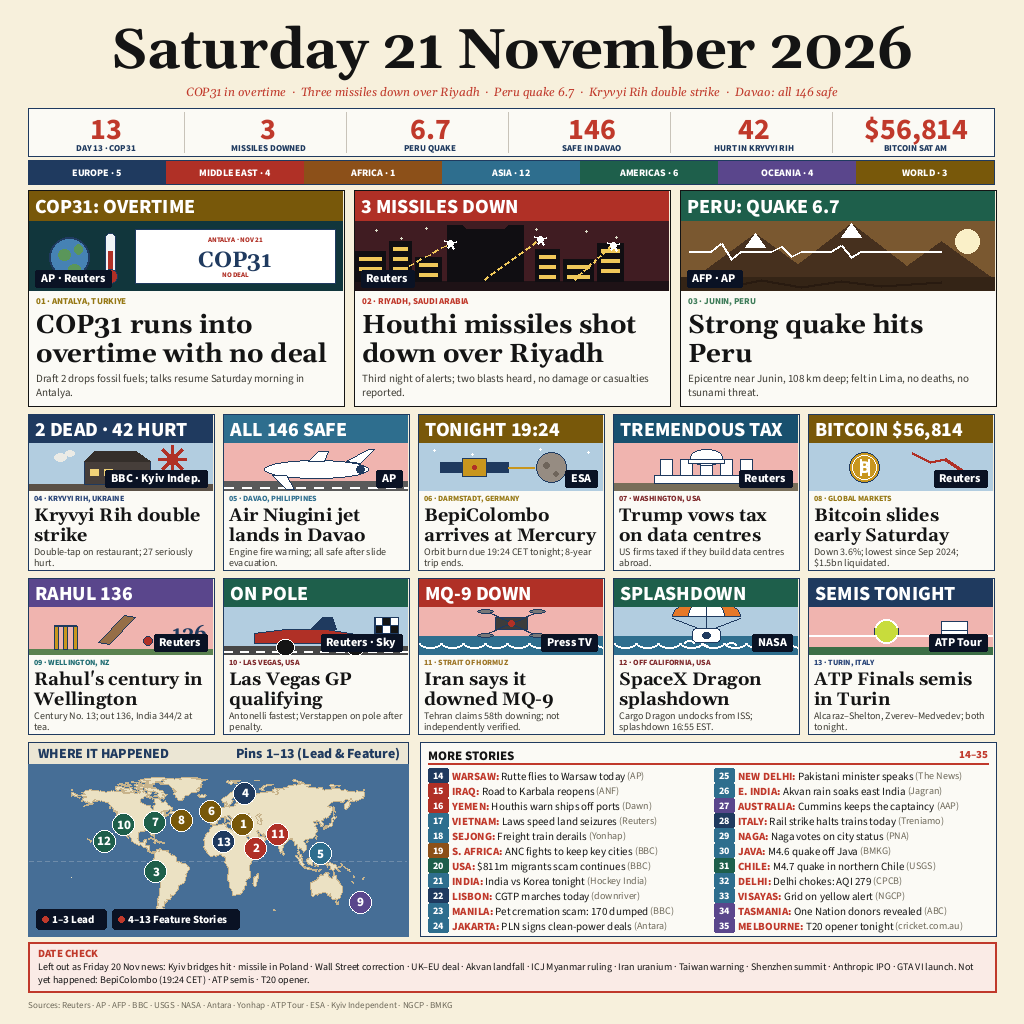
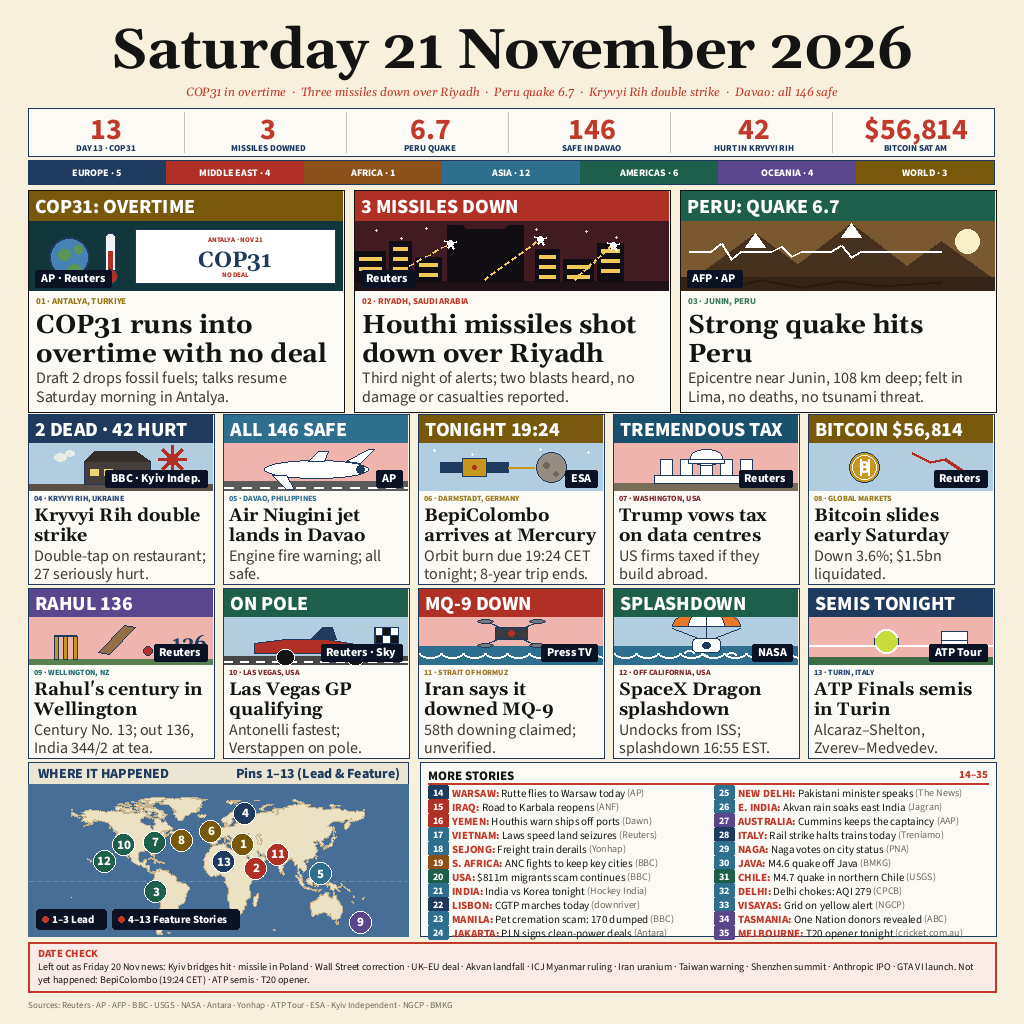
Opsi A layout ringkasan 16pt (Kevin 22 Nov 04:55): CARD_H 156->170, CARD_Y baris-2 578->588, MAP/BRIEFS y1 742->762 (peta 194->174px, -10%); pitch ringkasan kartu 19->18; briefs pitch 15->14 + mulai y1+23; 13/13 ringkasan 16pt 2 baris, col_bottoms 926/926, deterministik 2x

Changed region(s): [[0.0312, 0.5312, 0.9688, 0.9375], [0.0312, 0.3438, 0.9688, 0.4062]]

diff --git a/render_v2.py b/render_v2.py
@@ -40,6 +40,23 @@ Perubahan vs V1 (hanya 5 CHANGES FOR IMPROVE dari loss_report_a1.md):
    8pt->13pt, jarak minimum 18->25px, offset sampai 30px; acuan pin
    ni20 rev8) + label peta (judul 11->14, "Pins 1-13" 12->14, legenda
    8->11, chip 16px->20px); posisi kota + warna pin TIDAK berubah.
+11. Revisi Kevin 22 Nov 04:46 WIB: perbesar teks ringkasan/deskripsi di
+   bawah headline semua 13 kartu supaya kelihatan tanpa zoom —
+   LANTAI 16px (aturan Kevin 22 Nov 04:47, MEMORY.md: tidak ada teks di
+   bawah 16px di file; kalau tidak muat, potong kata, JANGAN kecilkan
+   font; cek di lebar 390px). Hero 11->16pt, kartu 10->16pt, pitch
+   19; HERO_H 216->222 (ringkasan mulai +76); 7 ringkasan dipersingkat
+   supaya tetap <=2 baris (#5, #7, #8, #10, #11, #12, #13 — "both
+   tonight" #13 sudah di banner SEMIS TONIGHT); fakta/angka TIDAK
+   berubah; headline tetap.
++12. Opsi A Kevin 22 Nov 04:55 WIB (layout agar ringkasan 16pt muat):
++   CARD_H 156->170, CARD_Y baris-2 578->588, MAP_BOX/BRIEFS_BOX y1
++   742->762 (peta 194->174px, -10%); pitch ringkasan kartu 19->18
++   (bbox teks 16pt = 16px, celah 2px antar baris, tanpa overlap);
++   briefs pitch 15->14 + mulai y1+23 (chip 14px bersentuhan vertikal,
++   tanpa overlap) agar 22 brief tetap muat di kotak 174px.
++   Perhitungan awal agen sebelumnya (y1=766) SALAH: brief butuh
++   tinggi >=186px di pitch 15 dan pin Wellington butuh peta >=~176px.
 
 YANG TIDAK BERUBAH: kerangka masthead + deck + strip + 3 hero + 10 kartu
 + peta + brief + DATE CHECK; kemurnian tanggal 35/35 Sabtu + angka
@@ -210,7 +227,7 @@ CARDS = [
     {"num": 5, "city": "Davao", "place": "DAVAO, PHILIPPINES",
      "topic": "AIR SAFETY", "region": "ASIA",
      "title": "Air Niugini jet lands in Davao",
-     "sum": "Engine fire warning; all safe after slide evacuation.",
+     "sum": "Engine fire warning; all safe.",
      "painter": "davao", "map_city": "Davao",
      "banner": "ALL 146 SAFE", "source": "AP"},
     {"num": 6, "city": "Darmstadt", "place": "DARMSTADT, GERMANY",
@@ -222,13 +239,13 @@ CARDS = [
     {"num": 7, "city": "Washington", "place": "WASHINGTON, USA",
      "topic": "TAX", "region": "AMERICAS",
      "title": "Trump vows tax on data centres",
-     "sum": "US firms taxed if they build data centres abroad.",
+     "sum": "US firms taxed if they build abroad.",
      "painter": "capitol", "map_city": "Washington",
      "banner": "TREMENDOUS TAX", "source": "Reuters"},
     {"num": 8, "city": "New York", "place": "GLOBAL MARKETS",
      "topic": "MARKETS", "region": "GLOBAL",
      "title": "Bitcoin slides early Saturday",
-     "sum": "Down 3.6%; lowest since Sep 2024; $1.5bn liquidated.",
+     "sum": "Down 3.6%; $1.5bn liquidated.",
      "painter": "bitcoin", "map_city": "New York",
      "banner": "BITCOIN $56,814", "source": "Reuters"},
     {"num": 9, "city": "Wellington", "place": "WELLINGTON, NZ",
@@ -240,25 +257,25 @@ CARDS = [
     {"num": 10, "city": "Las Vegas", "place": "LAS VEGAS, USA",
      "topic": "FORMULA 1", "region": "AMERICAS",
      "title": "Las Vegas GP qualifying",
-     "sum": "Antonelli fastest; Verstappen on pole after penalty.",
+     "sum": "Antonelli fastest; Verstappen on pole.",
      "painter": "f1", "map_city": "Las Vegas",
      "banner": "ON POLE", "source": "Reuters · Sky"},
     {"num": 11, "city": "Hormuz", "place": "STRAIT OF HORMUZ",
      "topic": "DRONE", "region": "MIDDLE EAST",
      "title": "Iran says it downed MQ-9",
-     "sum": "Tehran claims 58th downing; not independently verified.",
+     "sum": "58th downing claimed; unverified.",
      "painter": "drone", "map_city": "Hormuz",
      "banner": "MQ-9 DOWN", "source": "Press TV"},
     {"num": 12, "city": "California", "place": "OFF CALIFORNIA, USA",
      "topic": "SPACE", "region": "AMERICAS",
      "title": "SpaceX Dragon splashdown",
-     "sum": "Cargo Dragon undocks from ISS; splashdown 16:55 EST.",
+     "sum": "Undocks from ISS; splashdown 16:55 EST.",
      "painter": "dragon", "map_city": "California Coast",
      "banner": "SPLASHDOWN", "source": "NASA"},
     {"num": 13, "city": "Turin", "place": "TURIN, ITALY",
      "topic": "TENNIS", "region": "EUROPE",
      "title": "ATP Finals semis in Turin",
-     "sum": "Alcaraz–Shelton, Zverev–Medvedev; both tonight.",
+     "sum": "Alcaraz–Shelton, Zverev–Medvedev.",
      "painter": "tennis", "map_city": "Turin",
      "banner": "SEMIS TONIGHT", "source": "ATP Tour"},
 ]
@@ -836,19 +853,19 @@ def assign_banners(panels, regions):
 TITLE_Y = 16
 STRIP_Y, STRIP_H = 108, 48
 REGION_Y, REGION_H = 160, 24
-HERO_Y, HERO_H = 190, 216
+HERO_Y, HERO_H = 190, 222
 HERO_IMG_H = 100          # banner 30 + ilustrasi 70
 HERO_BANNER_H = 30
 HERO_X = [28, 354, 680]
 HERO_W = 316
-CARD_Y = [414, 578]
-CARD_H = 156
+CARD_Y = [414, 588]
+CARD_H = 170
 CARD_IMG_H = 76           # banner 28 + ilustrasi 48
 CARD_BANNER_H = 28
 CARD_X = [28, 223, 418, 613, 808]
 CARD_W = 186
-MAP_BOX = (28, 742, 408, 936)
-BRIEFS_BOX = (420, 742, 996, 936)
+MAP_BOX = (28, 762, 408, 936)
+BRIEFS_BOX = (420, 762, 996, 936)
 DC_BOX = (28, 942, 996, 992)
 SRC_Y = 998
 MAP_HEADER_H = 22
@@ -990,7 +1007,7 @@ def make_panel_img(painter_img, banner_color, banner_text, source,
 
 def draw_hero(im, d, hero, x, y, panel_img):
     """Hero: gambar atas 100px (banner 30 + ilustrasi 70) + kicker 9pt +
-    judul Gelasio 26px (<=2 baris) + ringkasan 11pt (2 baris)."""
+    judul Gelasio 26px (<=2 baris) + ringkasan 16pt (2 baris)."""
     tt = TileText(f"hero{hero['num']}")
     im.paste(panel_img, (x + 1, y + 1))
     reg_layout((x, y, x + HERO_W, y + HERO_H), f"hero{hero['num']}")
@@ -1008,19 +1025,19 @@ def draw_hero(im, d, hero, x, y, panel_img):
     for ln in tlines:
         tt.text(d, tx0, yy, ln, F(GEL700, 26), INK)
         yy += 29
-    slines = wrap(d, hero["sum"], F(SS400, 11), tx1 - tx0)
+    slines = wrap(d, hero["sum"], F(SS400, 16), tx1 - tx0)
     assert len(slines) == 2, f"ringkasan hero {hero['num']}: {slines}"
-    yy = y + HERO_IMG_H + 80
+    yy = y + HERO_IMG_H + 76
     for ln in slines:
-        tt.text(d, tx0, yy, ln, F(SS400, 11), (60, 58, 50))
-        yy += 14
+        tt.text(d, tx0, yy, ln, F(SS400, 16), (60, 58, 50))
+        yy += 19
     assert yy <= y + HERO_H - 6, f"hero {hero['num']} meluber"
     return {"title_lines": len(tlines), "sum_lines": len(slines)}
 
 
 def draw_card(im, d, card, x, y, panel_img):
     """Kartu: gambar atas 76px (banner 28 + ilustrasi 48) + kicker 8pt +
-    judul Gelasio 18px (<=2 baris) + ringkasan 10pt (<=2 baris)."""
+    judul Gelasio 18px (<=2 baris) + ringkasan 16pt (<=2 baris)."""
     tt = TileText(f"card{card['num']}")
     im.paste(panel_img, (x + 1, y + 1))
     reg_layout((x, y, x + CARD_W, y + CARD_H), f"card{card['num']}")
@@ -1040,12 +1057,12 @@ def draw_card(im, d, card, x, y, panel_img):
     for ln in tlines:
         tt.text(d, tx0, yy, ln, F(GEL700, 18), INK)
         yy += 20
-    slines = wrap(d, card["sum"], F(SS400, 10), tx1 - tx0)
+    slines = wrap(d, card["sum"], F(SS400, 16), tx1 - tx0)
     assert 1 <= len(slines) <= 2, f"ringkasan kartu {card['num']}: {slines}"
     yy = y + CARD_IMG_H + 54
     for ln in slines:
-        tt.text(d, tx0, yy, ln, F(SS400, 10), (60, 58, 50))
-        yy += 11
+        tt.text(d, tx0, yy, ln, F(SS400, 16), (60, 58, 50))
+        yy += 18
     assert yy <= y + CARD_H - 2, f"kartu {card['num']} meluber ke bawah"
     return {"title_lines": len(tlines), "sum_lines": len(slines)}
 
@@ -1173,13 +1190,13 @@ def draw_briefs(d):
     f_src = F(SS400, 10)
     f_chip = F(SS800, 10)
     chip_h = 14
-    pitch = 15
+    pitch = 14
     per = [11, 11]
     idx = 0
     col_bottoms = []
     for c in range(2):
         cx = x1 + 8 + c * (cw + 12)
-        yy = y1 + 26
+        yy = y1 + 23
         for k in range(per[c]):
             n, city, t, src, region = BRIEFS[idx]
             idx += 1
